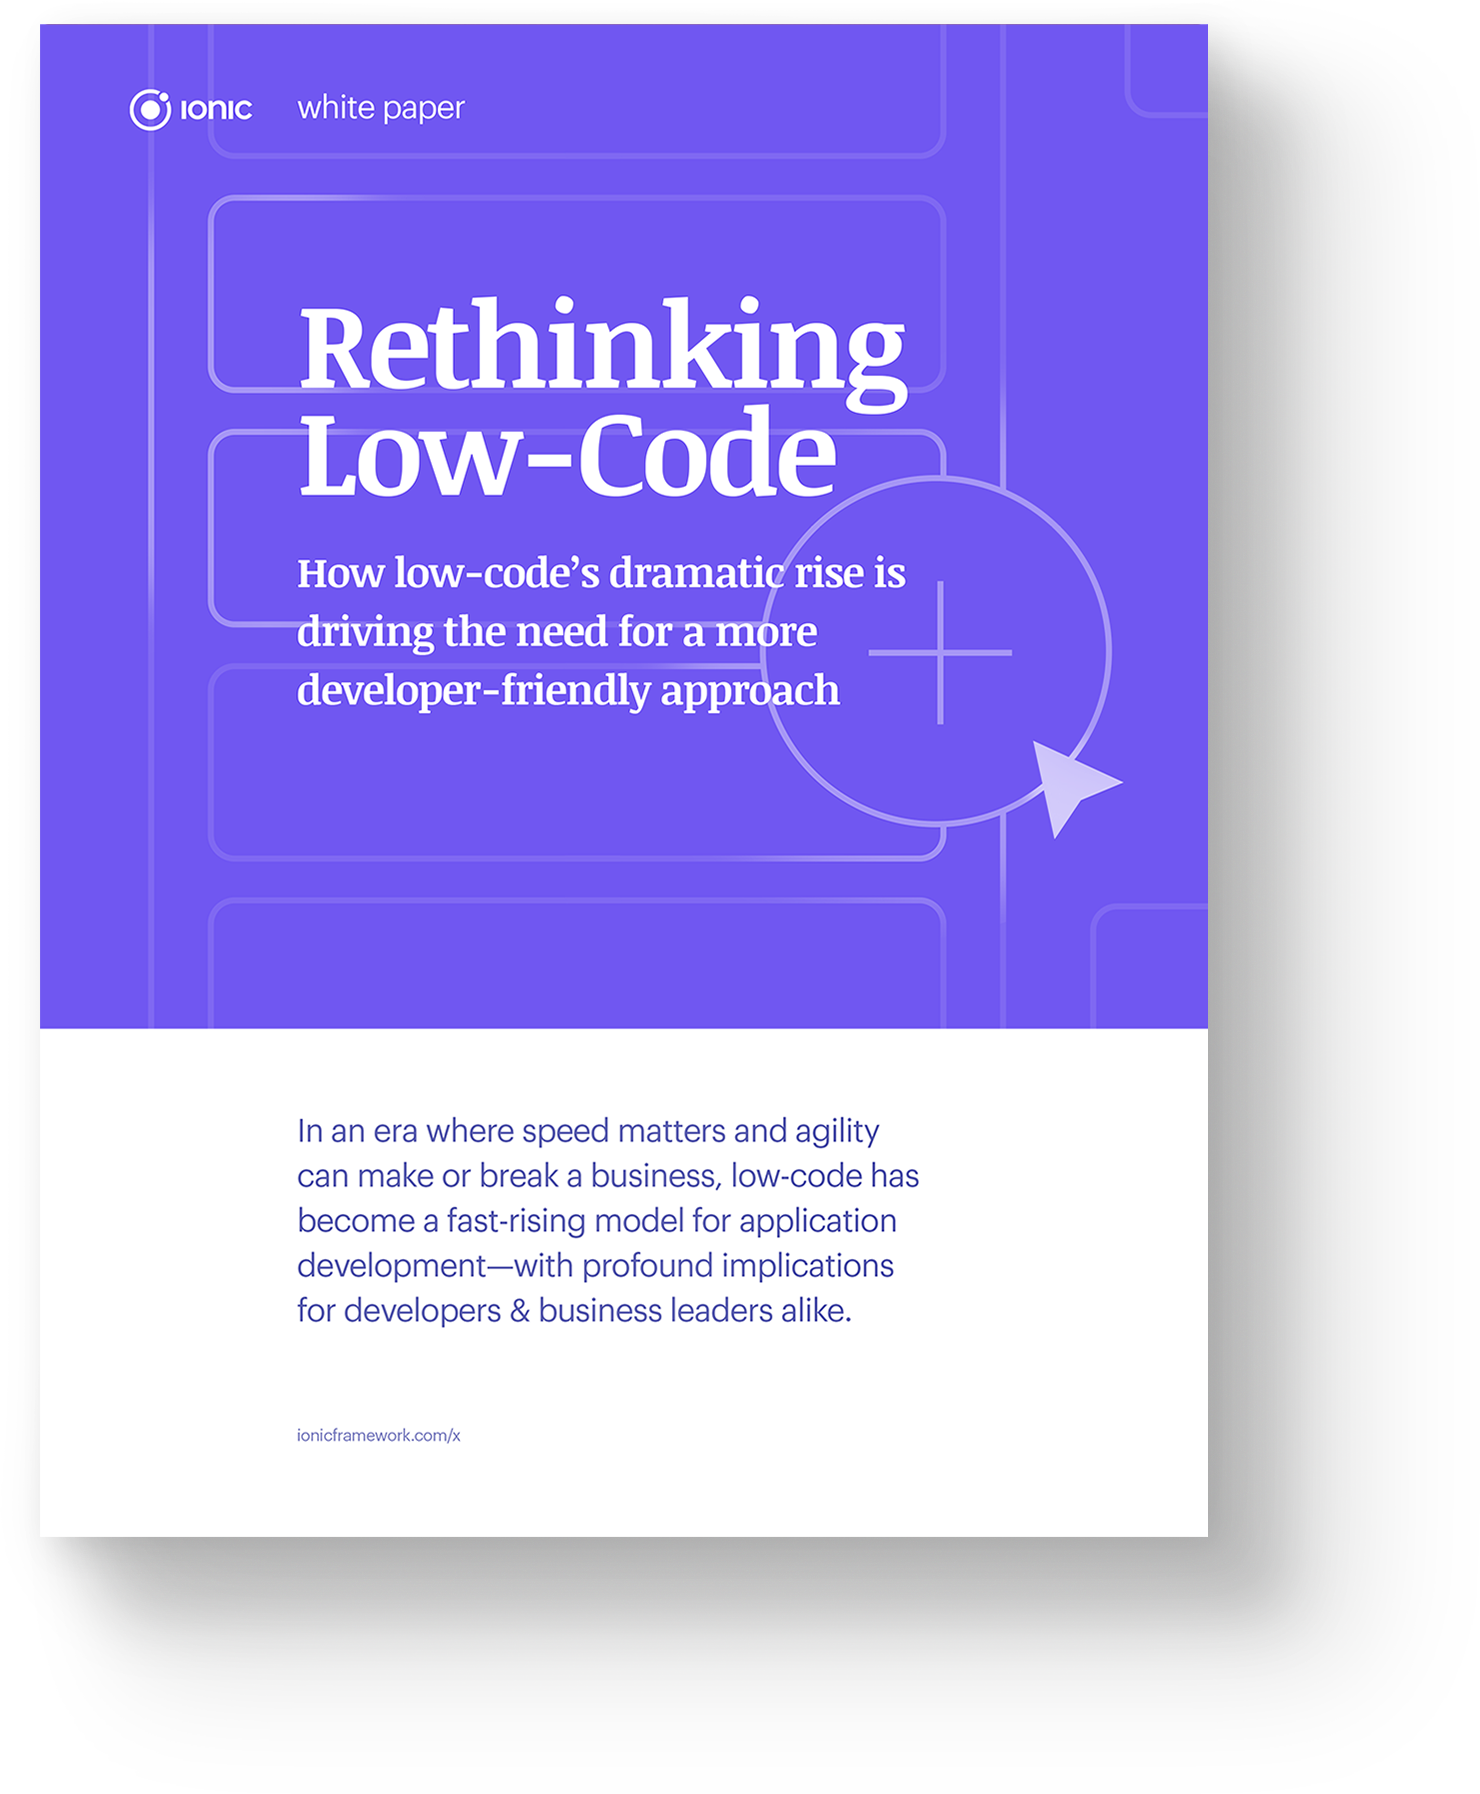
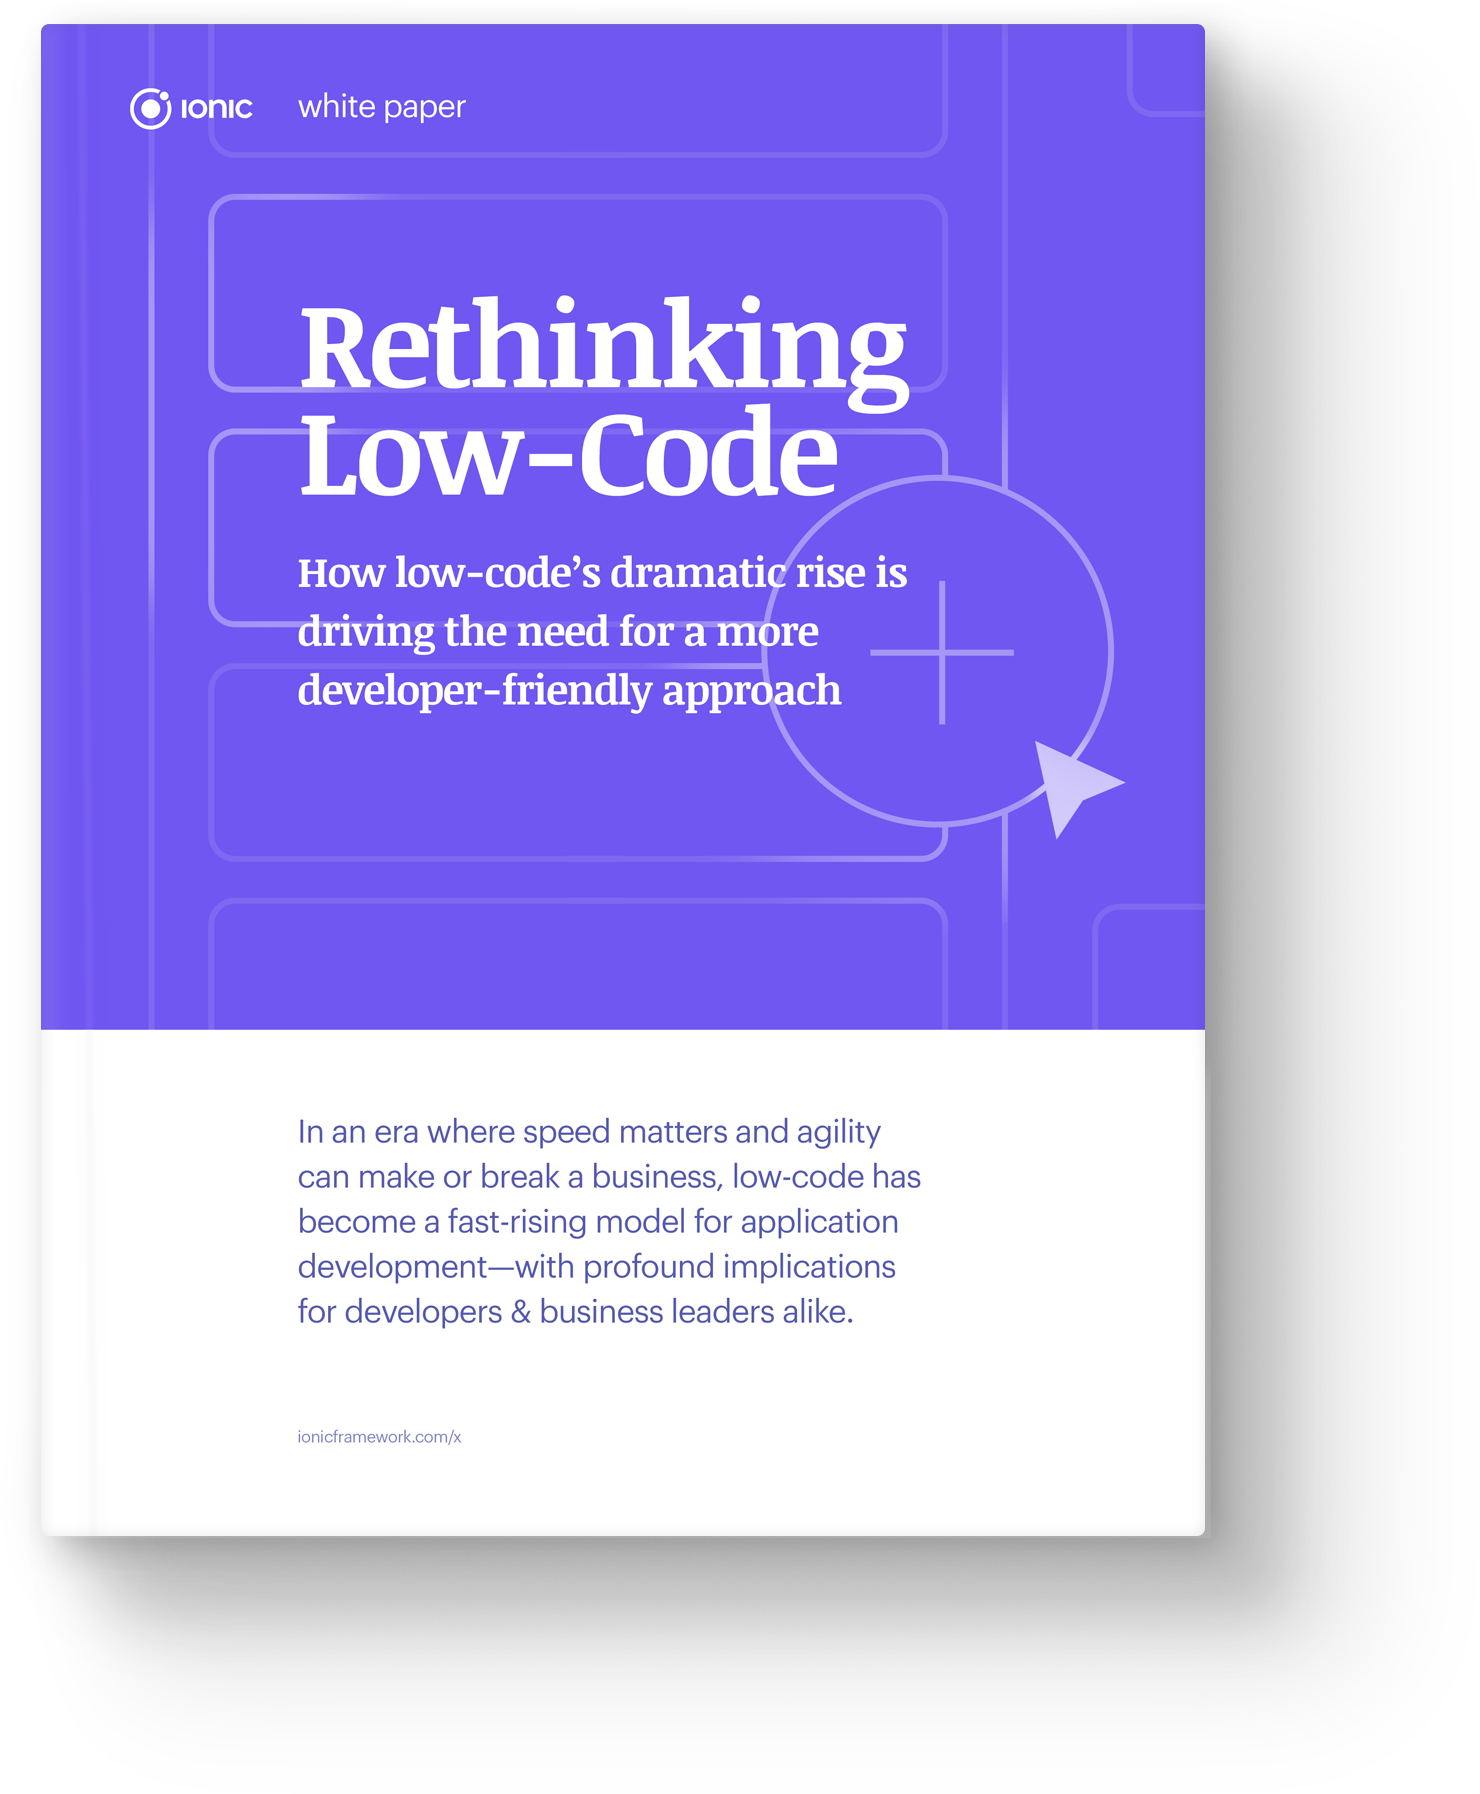
rethinking low-code style update

diff --git a/assets/scss/pages/books/index.scss b/assets/scss/pages/books/index.scss
@@ -191,6 +191,20 @@ hgroup {
   }
 }
 
+#page-books-rethinking-low-code {
+  .graphic {
+    background-image: url("/img/books/rethinking-low-code-cover.png");
+  }
+
+  aside {
+    background: #e4e6f6;
+  }
+
+  hgroup {
+    background: #f7f9fb;
+  }
+}
+
 #page-books-native-v-hybrid,
 #page-books-evaluating-ionic-for-enterprise,
 #page-books-rethinking-low-code {
@@ -210,11 +224,5 @@ hgroup {
         max-width: calc(100% - 24px);
       }
     }
-  }
-}
-
-#page-books-rethinking-low-code {
-  .graphic {
-    background-image: url("/img/books/rethinking-low-code-cover.png");
   }
 }
